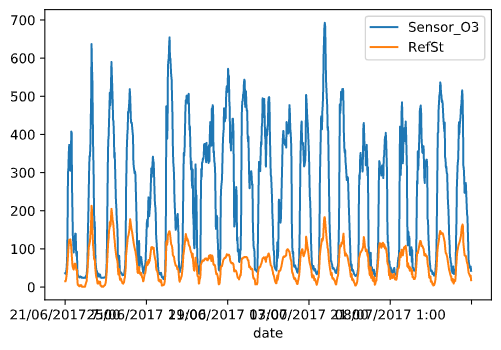
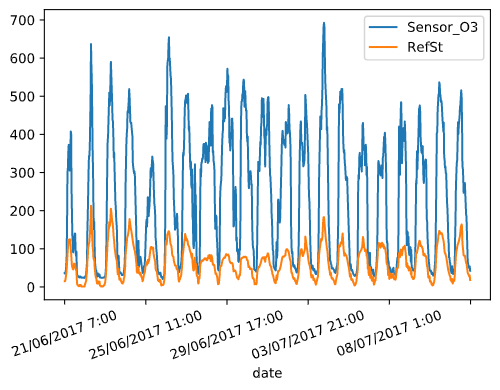
Multiple Linear Regression with normal equations finished

Changed region(s): [[0.0, 0.0, 0.99, 0.9714], [0.93, 0.8571, 0.96, 0.8857]]

diff --git a/main.py b/main.py
@@ -44,6 +44,7 @@ Temp_Sensor_O3.plot()
 # Plot the ozone (KOhms) and ozone reference data (μgr/m^3) as function of time
 Sensor_O3_RefSt = sensor[["Sensor_O3", "RefSt"]]
 Sensor_O3_RefSt.plot()
+plt.xticks(rotation=20)
 
 # %%
 # Plot the ozone (KOhms) and ozone reference data (μgr/m^3) as function of time - normalised
@@ -53,8 +54,8 @@ Sensor_O3_RefSt_norm.plot()
 
 # %%
 # Raw scatter plot
-scplt = pd.DataFrame({'RefSt': sensor["RefSt"], 'Sensor_O3': sensor["Sensor_O3"]})
-scplt.plot.scatter(x = 'Sensor_O3', y = 'RefSt')
+df = pd.DataFrame({'RefSt': sensor["RefSt"], 'Sensor_O3': sensor["Sensor_O3"]})
+df.plot.scatter(x = 'Sensor_O3', y = 'RefSt')
 
 
 # %%
@@ -71,27 +72,62 @@ normRefSt = (sensor["RefSt"] - μRefSt)/σRefSt
 
 print(μRefSt, σRefSt, normRefSt)
 
-scplt = pd.DataFrame({'normRefSt': normRefSt, 'normSensor_O3': normSensor_O3})
-scplt.plot.scatter(x = 'normSensor_O3', y = 'normRefSt')
+df = pd.DataFrame({'normRefSt': normRefSt, 'normSensor_O3': normSensor_O3})
+df.plot.scatter(x = 'normSensor_O3', y = 'normRefSt')
 
 # %%
-# Sensor_O3 with respect to Temp
-scplt = pd.DataFrame({'Temp': sensor["Temp"], 'Sensor_O3': sensor["Sensor_O3"]})
-scplt.plot.scatter(x = 'Sensor_O3', y = 'Temp')
+# Temp with respect to Sensor_O3
+df = pd.DataFrame({'Temp': sensor["Temp"], 'Sensor_O3': sensor["Sensor_O3"]})
+df.plot.scatter(x = 'Sensor_O3', y = 'Temp')
 
 # %%
-# Sensor_O3 with respect to RelHum
-scplt = pd.DataFrame({'RelHum': sensor["RelHum"], 'Sensor_O3': sensor["Sensor_O3"]})
-scplt.plot.scatter(x = 'Sensor_O3', y = 'RelHum')
+# Temp with respect to RefSt
+df = pd.DataFrame({'Temp': sensor["Temp"], 'RefSt': sensor["RefSt"]})
+df.plot.scatter(x = 'RefSt', y = 'Temp')
 
 # %%
-# RefSt with respect to Temp
-scplt = pd.DataFrame({'Temp': sensor["Temp"], 'RefSt': sensor["RefSt"]})
-scplt.plot.scatter(x = 'RefSt', y = 'Temp')
+# RelHum with respect to Sensor_O3
+df = pd.DataFrame({'RelHum': sensor["RelHum"], 'Sensor_O3': sensor["Sensor_O3"]})
+df.plot.scatter(x = 'Sensor_O3', y = 'RelHum')
 
 # %%
-# RefSt with respect to RelHum
-scplt = pd.DataFrame({'RelHum': sensor["RelHum"], 'RefSt': sensor["RefSt"]})
-scplt.plot.scatter(x = 'RefSt', y = 'RelHum')
+# RelHum with respect to RefSt
+df = pd.DataFrame({'RelHum': sensor["RelHum"], 'RefSt': sensor["RefSt"]})
+df.plot.scatter(x = 'RefSt', y = 'RelHum')
 
+# %%
+# Multiple Linear Regression
+from sklearn import linear_model
+df = pd.DataFrame({'Sensor_O3': sensor["Sensor_O3"], 'RefSt': sensor["RefSt"], 'Temp': sensor["Temp"], 'RelHum': sensor["RelHum"] })
+X = df[['Sensor_O3', 'Temp', 'RelHum']]
+Y = df['RefSt']
+regr = linear_model.LinearRegression()
+regr.fit(X, Y)
+print('Intercept: \n', regr.intercept_)
+print('Coefficients: \n', regr.coef_)
+
+# Pred = lambda Sensor_O3, Temp, RelHum: -34.0316709 + 0.15929287*Sensor_O3 + 2.49694134*Temp - 0.02949471*RelHum
+MLR = sensor[["Sensor_O3", "RefSt", "Temp", "RelHum"]]
+MLR["MLR_Pred"] = -34.0316709 + 0.15929287*sensor["Sensor_O3"] + 2.49694134*sensor["Temp"] - 0.02949471*sensor["RelHum"]
+print(MLR)
+MLR_plot = MLR[["RefSt", "MLR_Pred"]]
+MLR_plot.plot()
+plt.xticks(rotation=20)
+
+#%%
+# To plot the regression line over the scatter plot
+import seaborn as sns
+df = pd.DataFrame({'RefSt': MLR["RefSt"], 'MLR_Pred': MLR["MLR_Pred"]})
+sns.lmplot(x = 'RefSt', y = 'MLR_Pred', data= df, fit_reg=True, line_kws={'color': 'orange'}) 
+
+#%%
+# Loss functions
+from sklearn.metrics import r2_score, mean_squared_error, mean_absolute_error
+def loss_functions(y_true, y_pred):
+    print("Loss functions:")
+    print("* R-squared =", r2_score(y_true, y_pred))
+    print("* RMSE =", mean_squared_error(y_true, y_pred))
+    print("* MAE =", mean_absolute_error(y_true, y_pred))
+
+loss_functions(MLR["RefSt"], MLR["MLR_Pred"])
 # %%

diff --git a/README.md b/README.md
@@ -24,7 +24,7 @@ The dataset consists in the data collected by an air pollution sensor in an air 
 
 The data is organized as follows:
 * date: Timestamp (UTC) for each measurement
-* RefSt: Reference Station O3 concentrations, in μgr/m<sup>3</sup>
+* RefSt: Reference Station O3 concentrations, in μgr/m<sup>3</sup> (real pollution levels)
 * Sensor O3: MOX sensor measurements, in KΩ
 * Temp: Temperature sensor, in °C
 * RelHum: Relativa humidity sensor, in %
@@ -63,16 +63,73 @@ As we see in the plot, normalisation does not modify the original data shape.
 
 ![RefSt_RelHum_scatter](img/RefSt_RelHum_scatter.png)
 
-When comparing the plots with respect to **Sensor_O3** or with respect to **RefSt**, we see that the shape is similar but not the same, meaning that the data from the sensor is similar to the reference but not the same due to lack of calibration.
+When comparing the plots with respect to **Sensor_O3** and with respect to **RefSt**, we see that the shape is similar but not the same, meaning that the data from the sensor is similar to the reference but not the same due to lack of calibration.
 
+## Data calibration
+
+### Multiple Linear Regression
+
+#### With normal equations
+
+The most widely used equation to predict levels of ozone is a linear combination of the following independent variables:
+
+Pred = β<sub>0</sub> + β<sub>1</sub>·Sensor_O3 + β<sub>2</sub>·Temp + β<sub>3</sub>·RelHum
+
+By using `sklearn`'s linear regression fit function, we obtain the values:
+
+β<sub>0</sub> = -34.03167  
+β<sub>1</sub> = 0.1592929  
+β<sub>2</sub> = 2.4969413  
+β<sub>3</sub> = -0.0294947  
+
+The graph below compares the **concentration at the reference station** with the obtained **predicted values** after calibration with Multiple Linear Regression.
+
+![MLR_Pred](img/MLR_Pred.png)
+
+To compare the predicted data with the reference, we draw a scatterplot with a linear regression as follows:
+
+![MLR_Pred_scatter](img/MLR_Pred_scatter.png)
+
+To check performance and compare them later, some regression loss function values are calculated for each method: R-square R<sup>2</sup>, Root-mean-square deviation RMSE, and Mean absolute error MAE.
+
+The obtained loss functions for Multiple Linear Regression are:
+* R-squared = 0.8959208007572963
+* RMSE = 182.97679748753583
+* MAE = 10.592845738937898
+
+The new scatterplot, when compared to the original (raw sensor data **Sensor_O3** vs. reference **RefSt**), shows a thinner concentration as it fits better to a line shape, although it is not totally linear yet.
+
+#### With gradient descent method
+
+##### Batch
+
+##### Stochastic
+
+##### Mini-batch
+
+### K-nearest Neighbor
+
+### Random Forest
+
+### Kernel Regression
+
+#### RBF kernel
+
+#### Polynomial kernel
+
+### Gaussian Process
+
+### Support Vector Regression
+
+### Neural Network
 
 ## Source code
 
-You can check out the source code used for solving the problems on the GitHub repo:  
+You can check out the source code used for modeling and solving the problems on the GitHub repo:  
 [github.com/marcelcases/calibration-sensors-uncontrolled-environments](https://github.com/marcelcases/calibration-sensors-uncontrolled-environments)
 
 ## References
 Task statement  
-Hanz Rodríguez Ramos. *The deployment of extra relay nodes around the sink in order to solve the energy imbalanced problem in Wireless Sensor Networks*  
-M. Doudou, J. M. Barcelo-Ordinas, D. Djenouri, J. Garcia-Vidal, A. Bouabdallah, and N. Badache. *Game theory framework for mac parameter optimization in energy-delay constrained sensor networks*  
-GPkit documentation [gpkit.readthedocs.io/en/latest/](https://gpkit.readthedocs.io/en/latest/)  
+Badura, Batog, Drzeniecka, Modzel. *Regression methods in the calibration of low‑cost sensors for ambient particulate matter measurements*  
+Barceló-Ordinas, Doudou, Garcia-Vidal, Badache. *Self-calibration methods for uncontrolled environments in sensor networks: A reference survey*  
+Pandas documentation [pandas.pydata.org/docs/](https://pandas.pydata.org/docs/)  
